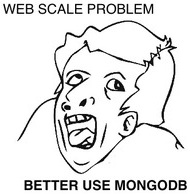
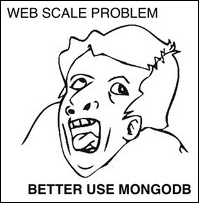
Move nosql guy into margin.

Changed region(s): [[0.0, 0.0, 1.0, 1.0], [0.0789, 0.7113, 0.1053, 0.7423]]

diff --git a/docs/conf.py b/docs/conf.py
@@ -112,7 +112,7 @@ html_theme_path = ['_themes']
 
 # The name of an image file (relative to this directory) to place at the top
 # of the sidebar.
-#html_logo = None
+html_logo = 'nosql-guy.jpg'
 
 # The name of an image file (within the static path) to use as favicon of the
 # docs.  This file should be a Windows icon file (.ico) being 16x16 or 32x32

diff --git a/docs/index.rst b/docs/index.rst
@@ -8,8 +8,6 @@ sortedfile
     :hidden:
     :maxdepth: 2
 
-.. image:: nosql-guy.jpg
-
 When handling large text files (for example, Apache logs), it is often
 desirable to quickly access some subset without first splitting or import to a
 database where a slow index creation process would be required.
